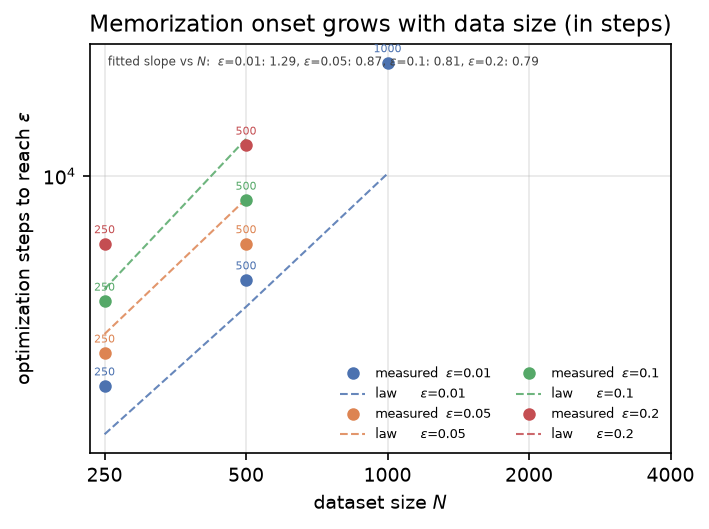
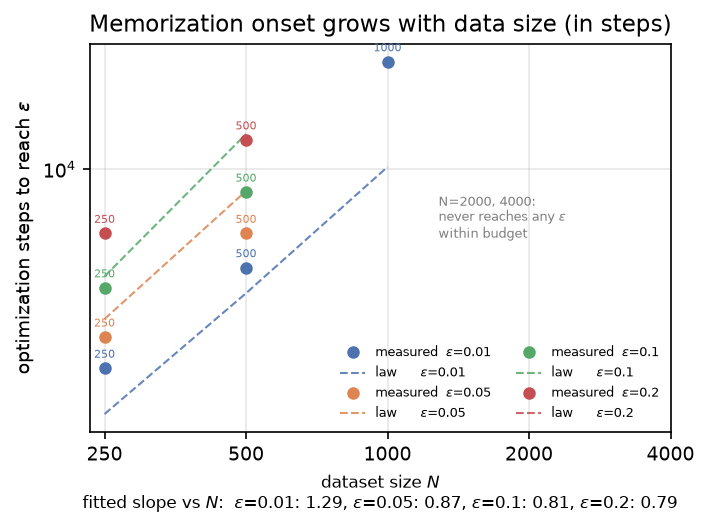
plot: onset 图标注大 N 未越线 + 斜率移到轴标签; build/watchdog.py 值守（卡死/完成都报警）

diff --git a/build/watchdog.py b/build/watchdog.py
@@ -1,0 +1,82 @@
+"""值守脚本：盯住夜里的长链条，出现异常或跑完时打印一份体检报告。
+
+判据（任一成立就退出并打印）：
+  1. `build/phase3.log` 里出现 `汇总`（finalize 跑完了，整条链结束）；
+  2. `build/queue_night.log` 超过 STALL_MIN 分钟没有新内容（训练卡死/进程被杀）；
+  3. 超过 MAX_H 小时（兜底，避免永久挂住）。
+
+为什么需要它：链条是我按阶段手动接力的（night 队列 → phase3 → finalize），
+中间任何一环挂掉都不会有人告诉我；而 GPU 被功耗墙压到 202 MHz 时
+单 run 要 40 分钟，人也不该一直盯着。
+"""
+from __future__ import annotations
+
+import subprocess
+import sys
+import time
+from datetime import datetime
+from pathlib import Path
+
+ROOT = Path(__file__).resolve().parent.parent
+Q = ROOT / "build" / "queue_night.log"
+P3 = ROOT / "build" / "phase3.log"
+POLL = 300
+STALL_MIN = 25
+MAX_H = 7.0
+
+
+def _mtime(p: Path) -> float:
+    return p.stat().st_mtime if p.exists() else 0.0
+
+
+def _tail(p: Path, n: int = 6) -> list[str]:
+    if not p.exists():
+        return []
+    try:
+        return p.read_text(encoding="utf-8", errors="replace").splitlines()[-n:]
+    except Exception:
+        return []
+
+
+def report(reason: str) -> None:
+    print(f"[{datetime.now():%H:%M:%S}] 值守退出：{reason}")
+    for name, p in (("queue_night.log", Q), ("phase3.log", P3)):
+        print(f"\n--- {name} ---")
+        for line in _tail(p, 8):
+            print("  " + line)
+    try:
+        out = subprocess.run(
+            [sys.executable, "-c",
+             "import pandas as pd,pathlib;"
+             "p=pathlib.Path('results/metrics_long.csv');"
+             "d=pd.read_csv(p) if p.exists() else None;"
+             "print(d.groupby(['dataset','n','seed']).size().to_string() if d is not None else 'no csv')"],
+            cwd=str(ROOT), capture_output=True, text=True, timeout=120)
+        print("\n--- metrics 行数 ---")
+        print(out.stdout.strip() or out.stderr.strip())
+    except Exception as e:  # noqa: BLE001
+        print(f"  (读 CSV 失败：{e})")
+    gpu = subprocess.run(["nvidia-smi", "--query-gpu=utilization.gpu,memory.used,clocks.sm,power.draw",
+                          "--format=csv,noheader"], capture_output=True, text=True)
+    print("\n--- GPU ---\n  " + (gpu.stdout.strip() or gpu.stderr.strip()))
+
+
+def main() -> None:
+    t0 = time.time()
+    print(f"[{datetime.now():%H:%M:%S}] 值守开始（每 {POLL}s 检查一次）")
+    while True:
+        if P3.exists() and "汇总" in P3.read_text(encoding="utf-8", errors="replace"):
+            report("链条全部完成（finalize 已汇总）")
+            return
+        age = (time.time() - _mtime(Q)) / 60.0
+        if age > STALL_MIN:
+            report(f"queue_night.log 已 {age:.0f} 分钟没有更新（阈值 {STALL_MIN}）")
+            return
+        if (time.time() - t0) / 3600.0 > MAX_H:
+            report(f"超过 {MAX_H:g} 小时兜底退出")
+            return
+        time.sleep(POLL)
+
+
+if __name__ == "__main__":
+    main()

diff --git a/tools/plot.py b/tools/plot.py
@@ -167,8 +167,17 @@ def fig_collapse(df: pd.DataFrame, law_json: dict):
     ax.legend(frameon=False, fontsize=6, ncol=2)
     if slopes:
         txt = ", ".join(rf"$\epsilon$={e:g}: {s:.2f}" for e, s in sorted(slopes.items()))
-        ax.text(0.03, 0.97, "fitted slope vs $N$:  " + txt, transform=ax.transAxes,
-                fontsize=5.8, va="top", color="0.25")
+        # 放进 x 轴标签的第二行 —— 放在图内任何位置都会跟点或图例打架
+        ax.set_xlabel("dataset size $N$\n" + "fitted slope vs $N$:  " + txt, fontsize=8)
+    else:
+        ax.set_xlabel("dataset size $N$")
+    # 大 N 档在预算内根本没有越过任何 ε —— 空白的右半边要自己解释，
+    # 否则读者会以为图画漏了。
+    silent = [N for N in Ns if all(tab.get((N, e)) is None for e in eps_list)]
+    if silent:
+        ax.text(0.60, 0.55,
+                f"N={', '.join(str(n) for n in silent)}:\nnever reaches any $\\epsilon$\nwithin budget",
+                transform=ax.transAxes, fontsize=6, color="0.5", ha="left", va="center")
     ax.set_title("Memorization onset grows with data size (in steps)")
     _save(fig, "fig_collapse")
 
